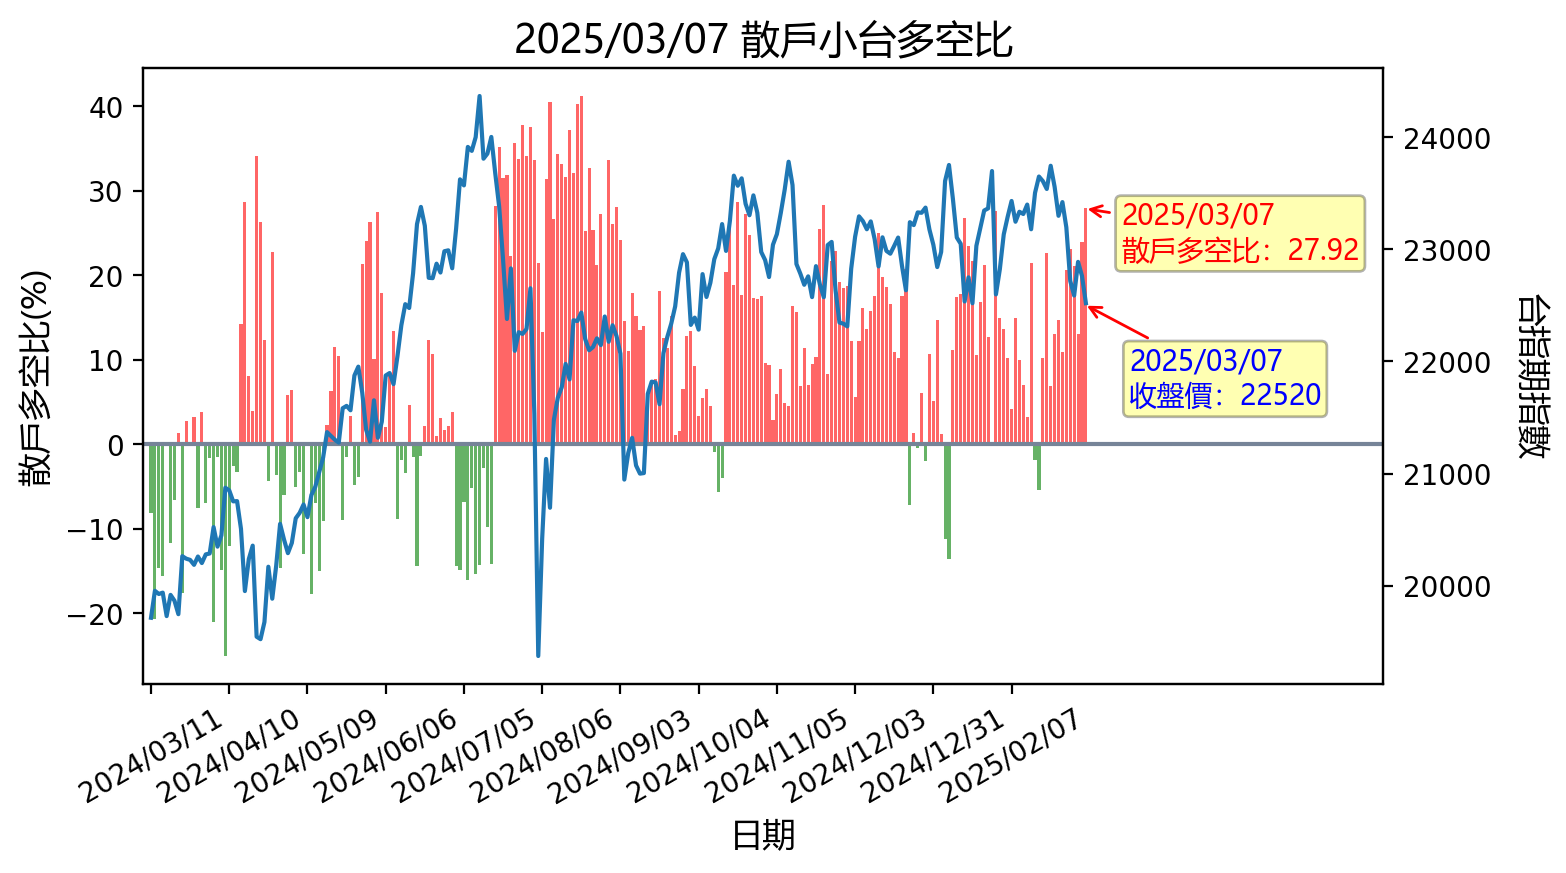
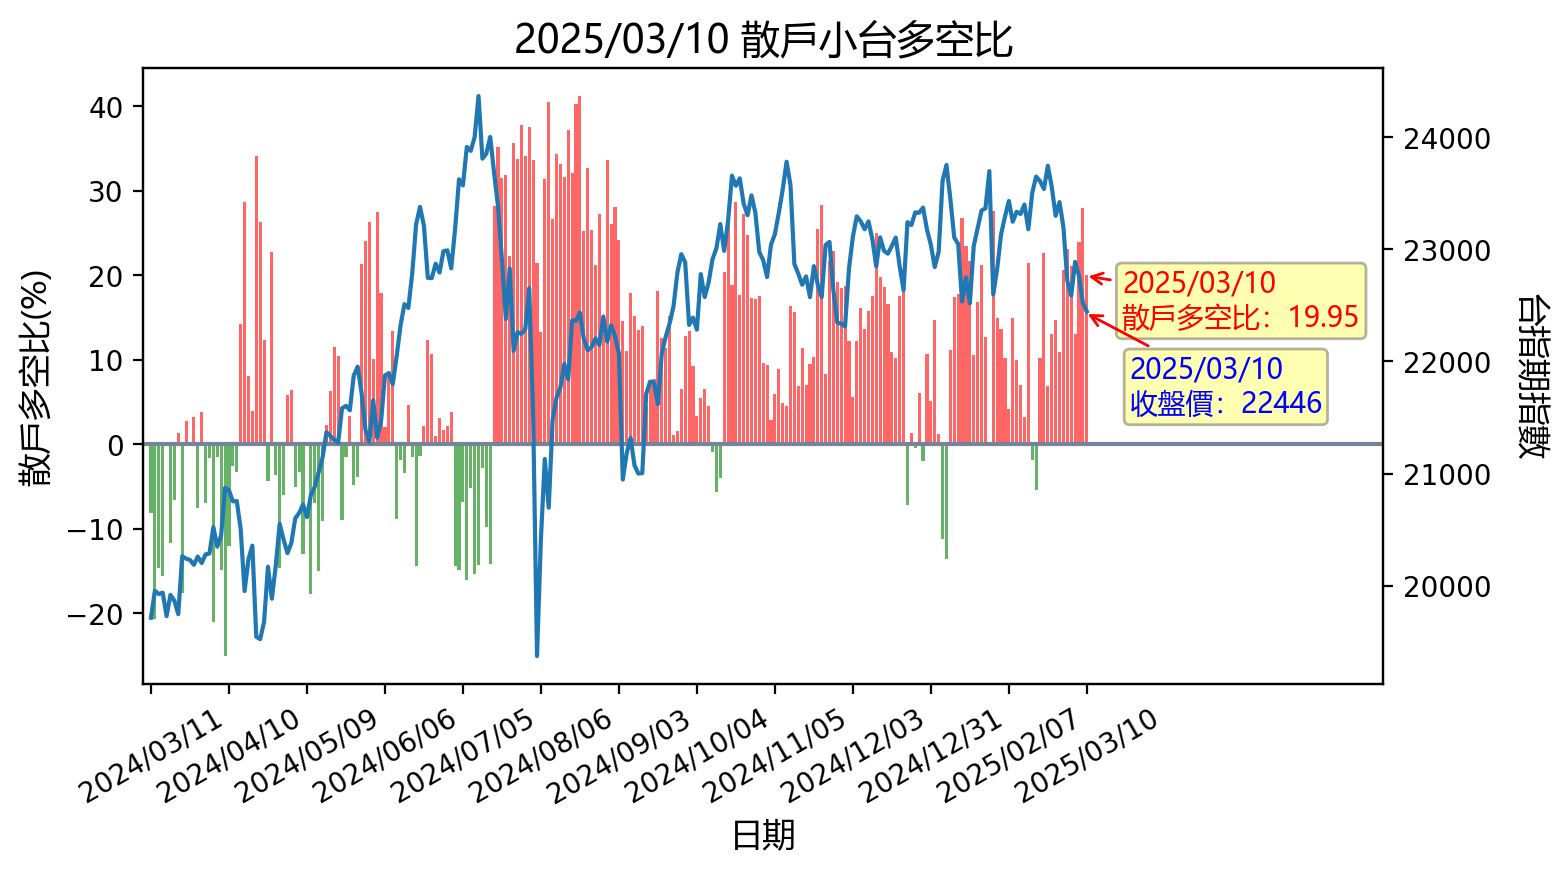
更新時間: Mon Mar 10 16:32:10 CST 2025

diff --git a/README.md b/README.md
@@ -1,12 +1,12 @@
-## 20250309 台指期「預估換倉成本」
+## 20250310 台指期「預估換倉成本」
 ![](images/txfcost.png)
 
-## 20250309 台指期「散戶小台多空比」
+## 20250310 台指期「散戶小台多空比」
 ![](images/bbiri.png)
 
-## 20250309 台指選擇權「Put/Call Ratios」
+## 20250310 台指選擇權「Put/Call Ratios」
 ![](images/pcratio.png)
 
-## 20250309 台指期「大額交易人」
+## 20250310 台指期「大額交易人」
 ![](images/blocktrade.png)
 
